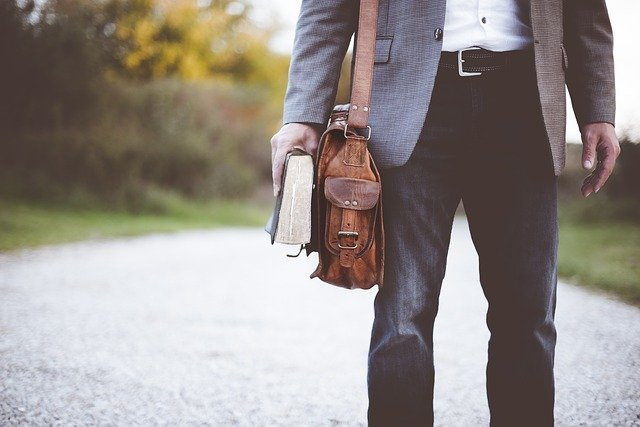
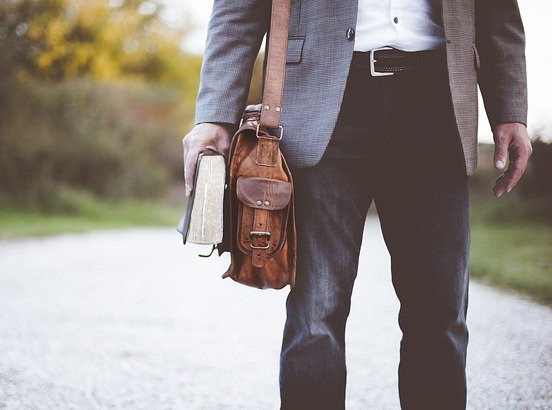
colors and images

diff --git a/index.html b/index.html
@@ -18,7 +18,7 @@
         <h3><a href="#">Blog</a></h3>
       </div>
       <div class="logo">
-        LOGO
+        NITE-TIME
       </div>
       <div class="right-menu">
         <h3><a href="#">About</a></h3>
@@ -32,7 +32,7 @@
       <div class="menu-container menu-top-left">
       </div>
       <div class=" menu-container logo">
-        <h2>LOGO</h2>
+        <h2>NITE-TIME</h2>
       </div>
       <div class="menu-container menu-top-right">
         <button id="mobile-menu-button" class="menu-button">
@@ -86,14 +86,14 @@
       <div id="product-boxes">
         <div class="boxes-outer">
             <div class="boxes-inner">
-              <img src="./427X570.jpg" />
+              <img src="./images/girl-5204296_1920.jpg" />
               <h3>Lorem Ipsum</h3>
               <p>$200.00</p>
             </div>
         </div>
         <div class="boxes-outer">
              <div class="boxes-inner">
-              <img src="./427X570.jpg"
+              <img src="./images/clay-pots-4465357_1920.jpg"
                />
                 <h3>Lorem Ipsum</h3>
                 <p>$200.00</p>
@@ -101,7 +101,7 @@
         </div>
         <div class="boxes-outer">
           <div class="boxes-inner">
-            <img src="./427X570.jpg" />
+            <img src="./images/pendant-941231_1280.jpg" />
             <h3>Lorem Ipsum</h3>
             <p>$200.00</p>
           </div>
@@ -144,19 +144,19 @@
 
     <section class="collage-grid wrapper">
       <picture class="grid-box a">
-        <img src="750X464.jpg" />
+        <img src="./images/diamond-1839031_1280.jpg" />
         <button>On the Blog</button>
       </picture>
       <picture class="grid-box b">
-        <img src="750X464.jpg" />
+        <img src="./images/girl-2366438_640.jpg" />
         <button>Visit the Shop</button>
       </picture>
       <picture class="grid-box c">
-        <img src="750X464.jpg" />
+        <img src="./images/handbag-407198_640.jpg" />
         <button>About Us</button>
       </picture>
       <picture class="grid-box d">
-        <img src="750X464.jpg" />
+        <img src="./images/girl2.jpg" />
         <button>Contact Us</button>
       </picture>
     </section>
@@ -165,7 +165,7 @@
 
     <section id="portrait-left">
       <picture class="portrait-img">
-        <img src="500X778.jpg"/>
+        <img src="./images/girl-2768343_1920.jpg"/>
       </picture>
       <div class="right-split">
         <div>
@@ -178,15 +178,15 @@
 
 
     <footer>
-        <h2>Follow @NiteStyling</h2>
+        <h2>Follow @Nite-Time</h2>
 
         <div class="img-ribbon wrapper">
-          <div class="img-cell"><img src="./300X223.jpg"/></div>
-          <div class="img-cell"><img src="./300X223.jpg"/></div>
-          <div class="img-cell"><img src="./300X223.jpg"/></div>
-          <div class="img-cell"><img src="./300X223.jpg"/></div>
-          <div class="img-cell"><img src="./300X223.jpg"/></div>
-          <div class="img-cell"><img src="./300X223.jpg"/></div>
+          <div class="img-cell"><img src="./images/hands-1031131_1920.jpg"/></div>
+          <div class="img-cell"><img src="./images/fashion-2309519_1920.jpg"/></div>
+          <div class="img-cell"><img src="./images/bag-1868758_640.jpg"></div>
+          <div class="img-cell"><img src="./images/writing-828911_640.jpg"/></div>
+          <div class="img-cell"><img src="./images/diamond2.jpg"/></div>
+          <div class="img-cell"><img src="./images/man2.jpg"/></div>
         </div>
 
         <div class="mid-row wrapper">
@@ -240,7 +240,7 @@
               Photos from
               <a href="#">Pixabay</a>
               |
-              Design by
+              Site by
               <a href="#">MikeCho.dev</a>
             </p>
           </div>

diff --git a/styles.css b/styles.css
@@ -28,9 +28,9 @@ article, aside, details, figcaption, figure, footer, header, hgroup, menu, nav, 
 }
 
 :root {
-	--main-bg-color: #222222;
+	--main-bg-color: #231f20;
 	--main-color: white;
-	--secondary-color: gray;
+	--secondary-color: #b8a799;
 }
 
 body {
@@ -69,6 +69,7 @@ blockquote, q {
 
 img {
 	border: 0;
+	filter: sepia(75%);
 }
 
 button {
@@ -192,6 +193,10 @@ div.spacer {
 
 .feature-image {
 	background: url("./780X864.jpg");
+	background: url("./images/portrait-657116_1280.jpg");
+	background-size: cover;
+	transform: scaleX(-1);
+	background-position-x: 120%;
 }
 
 .feature-left {
@@ -260,14 +265,16 @@ div.spacer {
 }
 
 .boxes-outer img {
-	max-width: 100%;
 	height: auto;
+	width: 100%;
+	/* height: 100%; */
 }
 
 .boxes-inner {
 	display: flex;
 	flex-direction: column;
 	align-items: center;
+	/* height: 33vh; */
 }
 
 .boxes-inner h3 {
@@ -546,8 +553,10 @@ footer>h2 {
 }
 
 .img-ribbon .img-cell img {
-	width: 100%;
+	max-width: 100%;
+	max-height: 100%;
 	object-fit: cover;
+
 }
 
 .mid-row {
